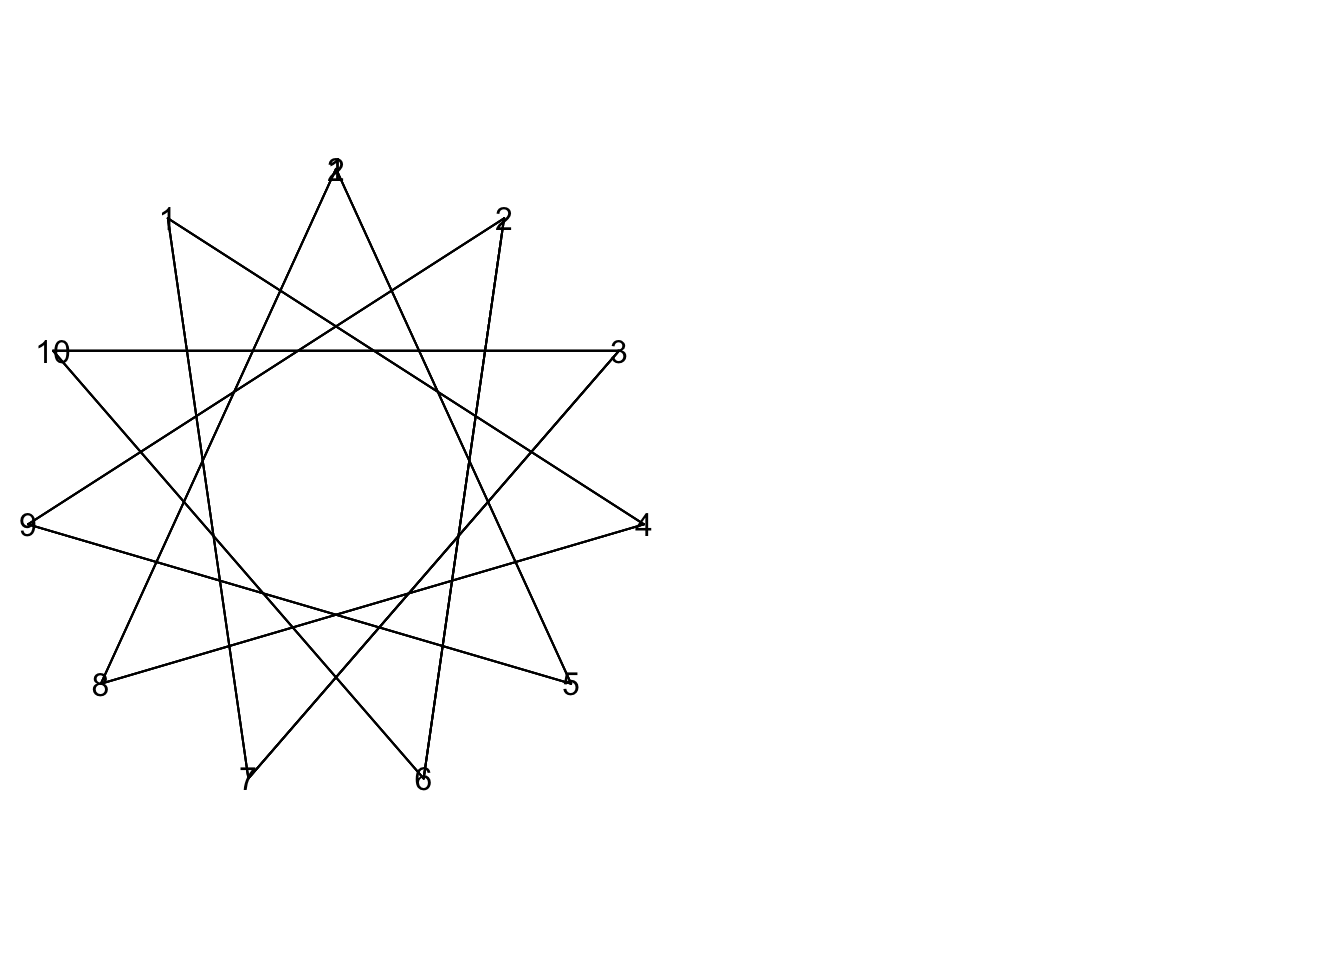
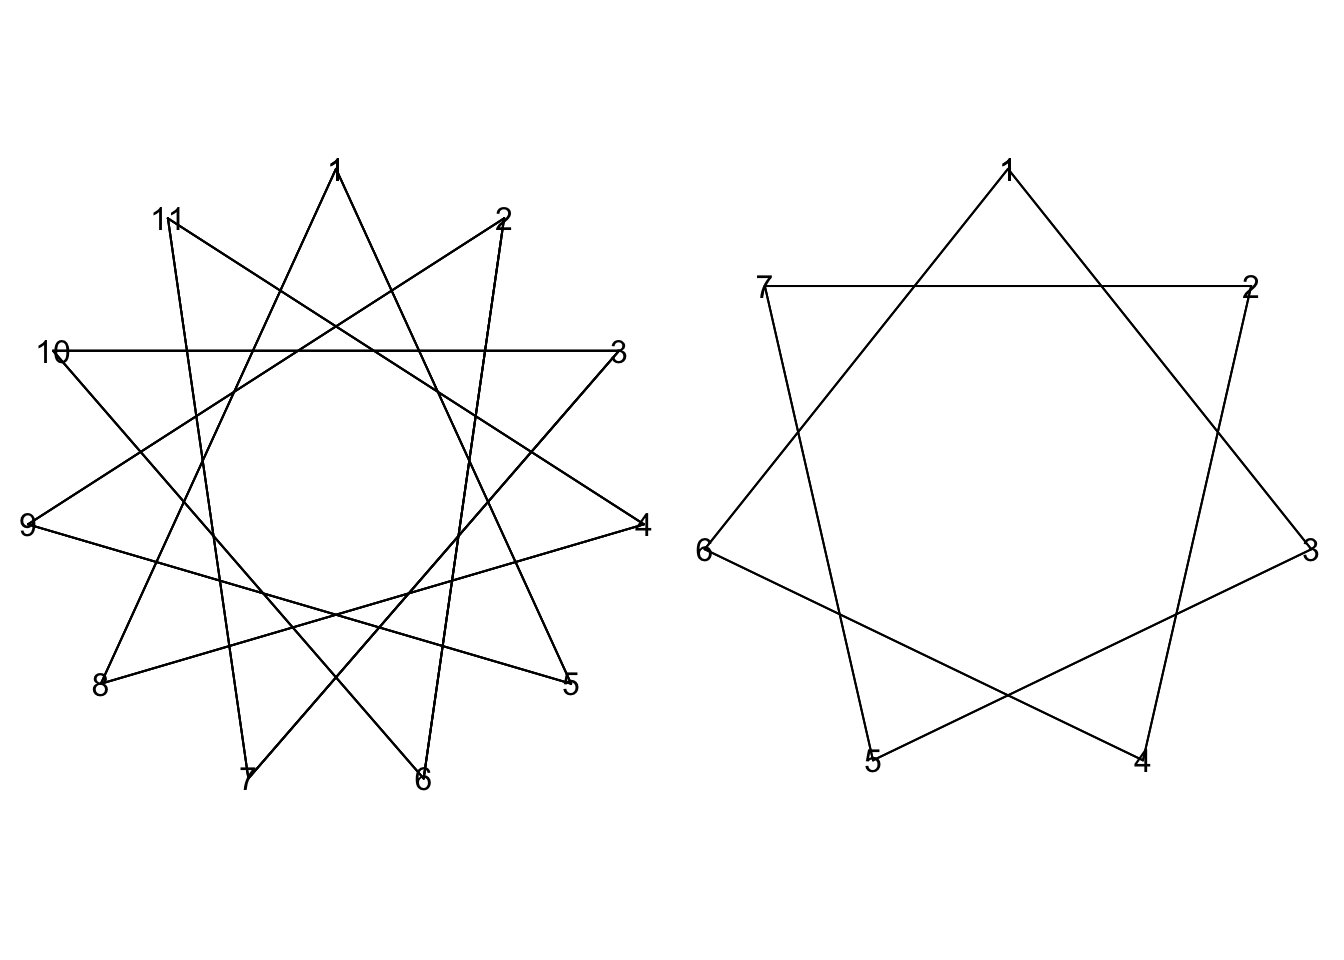
styled text

diff --git a/content/post/2024-02-25-/index.md b/content/post/2024-02-25-/index.md
@@ -47,19 +47,19 @@ for ax, ratio, waves in zip(axs.flatten(), [1, 4/3, 8/7, 24/23], [0.95, 2.95, 6.
 ```
 
 ```
-## [<matplotlib.lines.Line2D object at 0x168bb0a50>]
+## [<matplotlib.lines.Line2D object at 0x126bf5350>]
 ## []
 ## []
 ## (-1.0999991692927558, 1.0999999604425121, -1.0999981210196357, 1.0999997033188356)
-## [<matplotlib.lines.Line2D object at 0x168babd50>]
+## [<matplotlib.lines.Line2D object at 0x126c27390>]
 ## []
 ## []
 ## (-1.0999997923231684, 1.099999990110627, -1.0999357707940272, 1.0999334852952614)
-## [<matplotlib.lines.Line2D object at 0x168afca10>]
+## [<matplotlib.lines.Line2D object at 0x126c80950>]
 ## []
 ## []
 ## (-1.099991225665797, 1.0999995821745618, -1.099998840017093, 1.0999998168447835)
-## [<matplotlib.lines.Line2D object at 0x298e6e910>]
+## [<matplotlib.lines.Line2D object at 0x126cb2750>]
 ## []
 ## []
 ## (-1.1, 1.1, -1.0999998977880034, 1.0999993526573957)
@@ -75,30 +75,35 @@ plt.show()
 
 # Traveled
 
-This function computes the distance traveled along a curve as a percentage of total distance traveled, which can be used to create a new curve where the points are evenly spaced.  Works for a curve that is either in 2D or 3D space. One can make an evenly spaced vector by using linear interpolation for lookup table is combination of distance traveled and the x (or y vector) and one "looks up" a set of numbers that are evenly spaced on the unit interval.  In the pictures below the "dots" cluster in the corner in the graph on the right as they are not evenly spaced.
+This function computes the distance traveled along a curve as a percentage of total distance traveled, which can be used to create a new curve where the points are evenly spaced.  Works for a curve that is either in 2D or 3D space. One can make an evenly spaced vector by using linear interpolation for a lookup table is combination of distance traveled and the x (or y vector) and one "looks up" a set of numbers that are evenly spaced on the unit interval.  In the pictures below the "dots" cluster in the corner in the graph on the right as they are not evenly spaced.
 
 ```r
-traveled = function(xy){
-  NN = nrow(xy)
+traveled <- function(xy) {
+  NN <- nrow(xy)
   if (ncol(xy) == 2) {
-  distanceBetween = c(0,sqrt( rowSums((xy[1:(NN-1),1:2]-xy[2:(NN),1:2])^2 ))) } else {
-    distanceBetween = c(0,sqrt( rowSums((xy[1:(NN-1),1:3]-xy[2:(NN),1:3])^2 ))) }
-  traveled = cumsum(distanceBetween)/sum(distanceBetween)
-  return(traveled)}
+    distanceBetween <- c(0, sqrt(rowSums((xy[1:(NN - 1), 1:2] - xy[2:(NN), 1:2])^2)))
+  } else {
+    distanceBetween <- c(0, sqrt(rowSums((xy[1:(NN - 1), 1:3] - xy[2:(NN), 1:3])^2)))
+  }
+  traveled <- cumsum(distanceBetween) / sum(distanceBetween)
+  return(traveled)
+}
 
-#Example:
-NNN0=500
-xy0 = harmonica(NNN=NNN0,ratio=4/3,waves=2.95)
-travel = traveled(xy0)
-xy = cbind(approx(travel,xy0[,1],seq(0,1,length=NNN0),rule=2)[[2]],
-           approx(travel,xy0[,2],seq(0,1,length=NNN0),rule=2)[[2]])
+# Example:
+NNN0 <- 500
+xy0 <- harmonica(NNN = NNN0, ratio = 4 / 3, waves = 2.95)
+travel <- traveled(xy0)
+xy <- cbind(
+  approx(travel, xy0[, 1], seq(0, 1, length = NNN0), rule = 2)[[2]],
+  approx(travel, xy0[, 2], seq(0, 1, length = NNN0), rule = 2)[[2]]
+)
 
-par(pty='s',ann=F,mai=0*c(1,1,1,1),mfrow=c(1,2))
-plot(xy,typ='l',axes=F)
-points(xy,pch=20,col=rgb(1,0,0,.5))
+par(pty = "s", ann = F, mai = 0 * c(1, 1, 1, 1), mfrow = c(1, 2))
+plot(xy, typ = "l", axes = F)
+points(xy, pch = 20, col = rgb(1, 0, 0, .5))
 
-plot(xy0,typ='l',axes=F)
-points(xy0,pch=20,col=rgb(1,0,0,.5))
+plot(xy0, typ = "l", axes = F)
+points(xy0, pch = 20, col = rgb(1, 0, 0, .5))
 ```
 
 <img src="{{< blogdown/postref >}}index_files/figure-html/unnamed-chunk-3-3.png" width="672" />
@@ -110,22 +115,22 @@ This function conveniently transforms a sin curve to a given top and bottom and 
 
 
 ```r
-dougsSign = function(topBottom,NNN,waves=2*pi,start0=0){
-  thetas = seq(0,1,length=NNN)*waves
-  wave = (topBottom[1]-topBottom[2]) *( (sin(thetas+start0)+1)/2) + topBottom[2]
-  return(cbind(thetas,wave))
+dougsSign <- function(topBottom, NNN, waves = 2 * pi, start0 = 0) {
+  thetas <- seq(0, 1, length = NNN) * waves
+  wave <- (topBottom[1] - topBottom[2]) * ((sin(thetas + start0) + 1) / 2) + topBottom[2]
+  return(cbind(thetas, wave))
 }
 
-dY = 1/4
-par(pty='s',ann=F)
+dY <- 1 / 4
+par(pty = "s", ann = F)
 
-plot(NULL, xlim=c(0,2*pi),ylim=c(-1,1),axes=F)
+plot(NULL, xlim = c(0, 2 * pi), ylim = c(-1, 1), axes = F)
 
-start=32
-stop = 18
-for (i in seq(start,stop,-2)){
-  xy = dougsSign((start-i)*dY/2+c(-1,-1+dY),1000,waves=i*pi)
-lines(2*xy[,1]/i,xy[,2])
+start <- 32
+stop <- 18
+for (i in seq(start, stop, -2)) {
+  xy <- dougsSign((start - i) * dY / 2 + c(-1, -1 + dY), 1000, waves = i * pi)
+  lines(2 * xy[, 1] / i, xy[, 2])
 }
 ```
 
@@ -172,9 +177,17 @@ par(pty='s',ann=F,mai=0*c(1,1,1,1),mfrow=c(1,2))
 p1 = polly(11)
 
 plot(NULL, xlim = c(-1,1),ylim = c(-1,1), axes=F)
-text(p1[,1],p1[,2],1:10)
+text(p1[,1],p1[,2],1:11)
 for (i in 1:35) {
   lines(rbind(p1[(i %% 11) + 1,],p1[(i+4) %% 11 + 1,]))  
+}
+
+p1 = polly(7)
+
+plot(NULL, xlim = c(-1,1),ylim = c(-1,1), axes=F)
+text(p1[,1],p1[,2],1:7)
+for (i in 1:14) {
+  lines(rbind(p1[(i %% 7) + 1,],p1[(i+2) %% 7 + 1,]))  
 }
 ```
 
